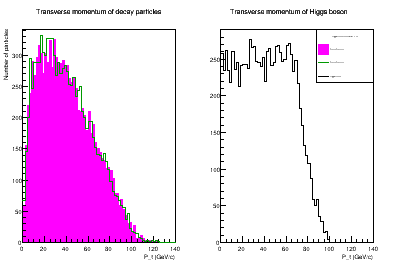
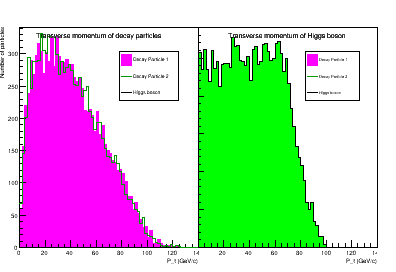
Zad5 sredivanje grafa

diff --git a/Vjezbe_5/Analyzer.cpp b/Vjezbe_5/Analyzer.cpp
@@ -12,48 +12,47 @@
 void Analyzer::PlotHistogram()
 {
     TCanvas c("c", "Transverse momentum", 0,0,400,300);
-    TH1F *h1 = new TH1F("h1", "Transverse P 1",     70, 0., 140.);
-    TH1F *h2 = new TH1F("h2", "Transverse P 2",     70, 0., 140.);
-    TH1F *hH = new TH1F("hH", "Transverse P Higgs", 70, 0., 140.);
-    TFile *fout = TFile::Open("H_TransP_12+H_fin.root", "RECREATE");
+    TH1F *h1     = new TH1F("h1", "Transverse P 1",     70, 0., 140.);
+    TH1F *h2     = new TH1F("h2", "Transverse P 2",     70, 0., 140.);
+    TH1F *hH     = new TH1F("hH", "Transverse P Higgs", 70, 0., 140.);
+    TFile *fout  = TFile::Open("H_TransP_12+H_fin.root", "RECREATE");
+    TLegend *leg = new TLegend(0.6, 0.7, 0.9, 0.9); // constructor takes coord of lower left and upper right corners
 
-    c.Divide(2, 1, 0.01, 0.01);  //divide canvas into 2 sub-pads
+
+    c.Divide(2, 1, 0, 0);  //divide canvas into 2 sub-pads
     gStyle->SetOptStat(0);       //remove statistics boxes
     
     this->Loop(h1, h2, hH); // Punjenje je u metodi Loop(TH1F* h...)
     
-    c.cd(1); //set sub-pad 1 as current pad (pointer gPad) DRAW HERE!
+    c.cd(1); //set sub-pad 1 as current pad (pointer gPad) DRAW() HERE!
     h1->GetXaxis()->SetTitle("P_t (GeV/c)");
     h1->GetYaxis()->SetTitle("Number of particles");
     h1->SetLineColor(kMagenta);
     h1->SetFillColor(kMagenta);
-    //h1->SetStats(0);
     h1->SetTitle("Transverse momentum of decay particles");
     h1->Draw();
 
-    //h2->GetXaxis()->SetTitle("P_t (GeV/c)");
-    //h2->GetYaxis()->SetTitle("Number of particles");
     h2->SetLineColor(kGreen+2);
-    //h2->SetFillColor(kMagenta);
-    //h2->SetStats(0);
     h2->SetTitle("");
     h2->Draw("same"); // same canvas, aka sub-pad!
+
+    //leg->SetHeader("Higgs boson decay simulation", "C");
+    leg->AddEntry(h1, "Decay Particle 1", "f");
+    leg->AddEntry(h2, "Decay Particle 2", "l");
+    //leg->AddEntry(hH, "Higgs boson", "l");
+    leg->Draw();
 
     c.cd(2); // SAD CRTAJ NA sub-pad 2
     hH->GetXaxis()->SetTitle("P_t (GeV/c)");
     //hH->GetYaxis()->SetTitle("Number of particles");
     hH->SetLineColor(kBlack);
-    //hH->SetFillColor(kMagenta);
-    //hH->SetStats(0);
+    hH->SetFillColor(kBlack+2);
     hH->SetTitle("Transverse momentum of Higgs boson");
     hH->Draw();
 
-    //Create legend on current pad (gPad)!
+    //Draw legend on current pad (gPad)!
     //c.cd();
-    TLegend* leg = new TLegend(0.6, 0.7, 0.9, 0.9); // constructor takes coord of lower left and upper right corners
-    leg->SetHeader("Higgs boson decay simulation", "C");
-    leg->AddEntry(h1, "Decay Particle 1", "f");
-    leg->AddEntry(h2, "Decay Particle 2", "l");
+    //leg->SetHeader("Higgs boson decay simulation", "C");
     leg->AddEntry(hH, "Higgs boson", "l");
     leg->Draw();
 
